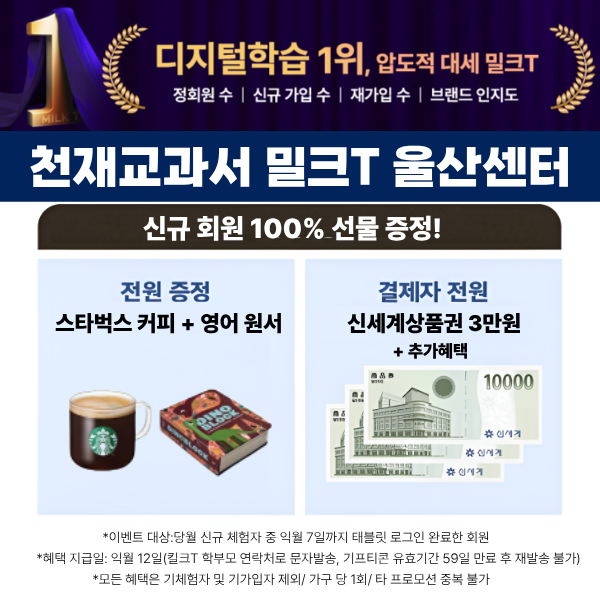
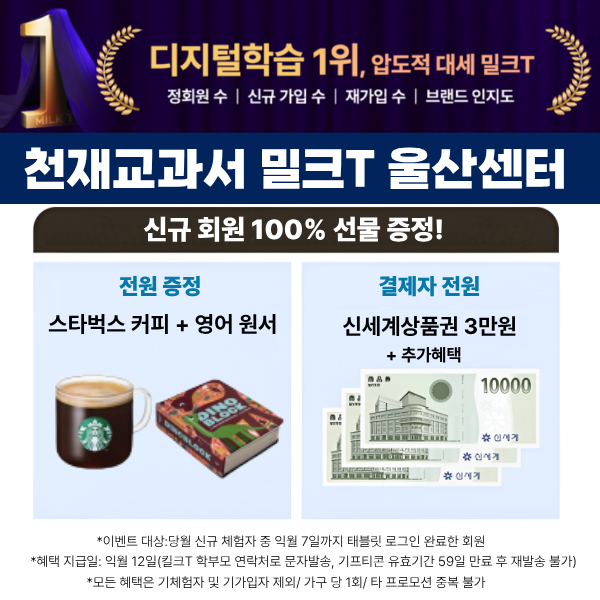
s

Changed region(s): [[0.0, 0.0, 1.0, 0.99], [0.93, 0.45, 0.96, 0.84], [0.99, 0.21, 1.0, 0.24]]

diff --git a/admin.html b/admin.html
@@ -764,6 +764,13 @@
             <div class="content-body">
                 <div class="filter-bar">
                     <div class="filter-item">
+                        <label>문의 구분:</label>
+                        <select id="landing-filter" onchange="onLandingFilterChange()">
+                            <option value="milkt-56">밀크티 5~6세 문의리스트</option>
+                            <option value="milkt-ver2">아이/초등/중고 문의리스트</option>
+                        </select>
+                    </div>
+                    <div class="filter-item">
                         <label>담당선생님:</label>
                         <select id="source-filter" onchange="onSourceFilterChange()">
                             <option value="">전체</option>
@@ -779,7 +786,7 @@
                 </div>
 
                 <div class="inquiries-table">
-                    <div class="table-header">
+                    <div class="table-header" id="inquiries-table-header">
                         <div>ID</div>
                         <div>자녀 생년월일</div>
                         <div>학부모 이름</div>
@@ -868,6 +875,7 @@
         let currentInquiryId = null;
         let searchTerm = '';
         let currentSource = '';
+        let currentLanding = 'milkt-56';
 
         // 초기화
         document.addEventListener('DOMContentLoaded', function() {
@@ -957,7 +965,8 @@
             listContainer.innerHTML = '<div class="loading">로딩 중...</div>';
 
             try {
-                let url = `/api/inquiries?page=${currentPage}&limit=20`;
+                updateTableHeaderForLanding();
+                let url = `/api/inquiries?page=${currentPage}&limit=20&landing=${encodeURIComponent(currentLanding)}`;
                 if (currentSource) url += `&source=${encodeURIComponent(currentSource)}`;
                 const response = await fetch(url);
                 const result = await response.json();
@@ -970,8 +979,9 @@
                         inquiries = inquiries.filter(inquiry => {
                             const name = inquiry.parent_name?.toLowerCase() || '';
                             const phone = inquiry.phone_number?.toLowerCase() || '';
+                            const childInfo = (inquiry.child_birthday || '').toString().toLowerCase();
                             const term = searchTerm.toLowerCase();
-                            return name.includes(term) || phone.includes(term);
+                            return name.includes(term) || phone.includes(term) || childInfo.includes(term);
                         });
                     }
                     
@@ -985,9 +995,35 @@
             }
         }
 
+        // 랜딩 구분에 따라 테이블 헤더 텍스트 변경
+        function updateTableHeaderForLanding() {
+            const header = document.getElementById('inquiries-table-header');
+            if (!header) return;
+            const isVer2 = currentLanding === 'milkt-ver2';
+            const col2 = isVer2 ? '나이 또는 학년' : '자녀 생년월일';
+            const col3 = isVer2 ? '자녀 이름' : '학부모 이름';
+            const col4 = isVer2 ? '학부모 전화번호' : '전화번호';
+            header.innerHTML = `
+                <div>ID</div>
+                <div>${col2}</div>
+                <div>${col3}</div>
+                <div>${col4}</div>
+                <div>담당선생님</div>
+                <div>이용약관</div>
+                <div>개인정보</div>
+                <div>마케팅</div>
+                <div>상태</div>
+                <div>작업</div>
+            `;
+        }
+
         // 문의 목록 표시
         function displayInquiries(inquiries, pagination) {
             const listContainer = document.getElementById('inquiries-list');
+            const isVer2 = currentLanding === 'milkt-ver2';
+            const labelCol2 = isVer2 ? '나이 또는 학년' : '자녀 생년월일';
+            const labelCol3 = isVer2 ? '자녀 이름' : '학부모 이름';
+            const labelCol4 = isVer2 ? '학부모 전화번호' : '전화번호';
 
             if (inquiries.length === 0) {
                 listContainer.innerHTML = `
@@ -1007,9 +1043,9 @@
                 html += `
                     <div class="table-row">
                         <div class="table-cell" data-label="ID">${inquiry.id}</div>
-                        <div class="table-cell" data-label="자녀 생년월일">${inquiry.child_birthday}</div>
-                        <div class="table-cell" data-label="학부모 이름">${inquiry.parent_name}</div>
-                        <div class="table-cell" data-label="전화번호">${inquiry.phone_number}</div>
+                        <div class="table-cell" data-label="${labelCol2}">${inquiry.child_birthday || '-'}</div>
+                        <div class="table-cell" data-label="${labelCol3}">${inquiry.parent_name || '-'}</div>
+                        <div class="table-cell" data-label="${labelCol4}">${inquiry.phone_number || '-'}</div>
                         <div class="table-cell" data-label="담당선생님">${inquiry.source ? inquiry.source : '-'}</div>
                         <div class="table-cell" data-label="이용약관">${inquiry.agree1 ? '✓' : ''}</div>
                         <div class="table-cell" data-label="개인정보">${inquiry.agree2 ? '✓' : ''}</div>
@@ -1068,6 +1104,13 @@
         // 페이지 변경
         function changePage(page) {
             currentPage = page;
+            loadInquiries();
+        }
+
+        // 랜딩 구분 변경
+        function onLandingFilterChange() {
+            currentLanding = document.getElementById('landing-filter').value;
+            currentPage = 1;
             loadInquiries();
         }
 

diff --git a/milkt-ver2/index.html b/milkt-ver2/index.html
@@ -909,33 +909,34 @@
                 <a href="#" class="direct-input-link" onclick="handleDirectInput(event); return false;">직접 입력하기</a>
             </div>
 
-            <!-- 직접 입력 폼 - 1단계: 생년월일 -->
+            <!-- 직접 입력 폼 - 1단계: 나이 또는 학년 -->
             <div class="modal-content form-step" id="step1">
                 <div class="form-title">결과가 다른 시작, 밀크T 무료체험부터!</div>
                 <div class="form-group">
                     <label class="form-label">
-                        <span class="required">*</span>자녀의 생년월일을 입력해주세요.
+                        <span class="required">*</span>나이 또는 학년을 입력해주세요.
                     </label>
-                    <input type="text" class="form-input" id="childBirthday" placeholder="예: 2020-01-01" maxlength="10" oninput="formatDate(this); clearInputError('childBirthday')" required>
+                    <input type="text" class="form-input" id="childBirthday" placeholder="예: 8세, 초등2학년" maxlength="20" oninput="clearInputError('childBirthday')" required>
+                    <div class="form-example">ex) 8세, 초등2학년, 중1</div>
                 </div>
                 <div class="form-buttons">
                     <button class="form-btn form-btn-primary" onclick="goToStep(2, event)">다음</button>
                 </div>
             </div>
 
-            <!-- 직접 입력 폼 - 2단계: 이름, 전화번호 -->
+            <!-- 직접 입력 폼 - 2단계: 자녀 이름, 학부모 전화번호 -->
             <div class="modal-content form-step" id="step2">
                 <div class="form-title">결과가 다른 시작, 밀크T 무료체험부터!</div>
                 <div class="form-group">
                     <label class="form-label">
-                        <span class="required">*</span>학부모님의 이름을 입력해주세요.
+                        <span class="required">*</span>자녀 이름을 입력해주세요.
                     </label>
                     <input type="text" class="form-input" id="parentName" placeholder="홍길동" oninput="clearInputError('parentName')" required>
                     <div class="form-example">ex) 홍길동</div>
                 </div>
                 <div class="form-group">
                     <label class="form-label">
-                        <span class="required">*</span>연락 받으실 전화번호를 입력해주세요.
+                        <span class="required">*</span>학부모 전화번호를 입력해주세요.
                     </label>
                     <input type="tel" class="form-input" id="phoneNumber" placeholder="010-1234-5678" maxlength="13" oninput="formatPhone(this); clearInputError('phoneNumber')" required>
                 </div>
@@ -1139,7 +1140,7 @@
             }
         }
 
-        // 1단계 검증 (생년월일)
+        // 1단계 검증 (나이 또는 학년)
         function validateStep1() {
             const childBirthdayInput = document.getElementById('childBirthday');
             const childBirthday = childBirthdayInput.value.trim();
@@ -1147,35 +1148,7 @@
             clearInputError('childBirthday');
             
             if (!childBirthday) {
-                alert('자녀의 생년월일을 입력해주세요.');
-                showInputError('childBirthday');
-                childBirthdayInput.focus();
-                return false;
-            }
-
-            // 날짜 형식 검증 (YYYY-MM-DD)
-            const datePattern = /^\d{4}-\d{2}-\d{2}$/;
-            if (!datePattern.test(childBirthday)) {
-                alert('생년월일을 올바른 형식으로 입력해주세요. (예: 2020-01-01)');
-                showInputError('childBirthday');
-                childBirthdayInput.focus();
-                return false;
-            }
-
-            // 날짜 유효성 검증
-            const date = new Date(childBirthday);
-            const [year, month, day] = childBirthday.split('-').map(Number);
-            
-            if (date.getFullYear() !== year || date.getMonth() + 1 !== month || date.getDate() !== day) {
-                alert('올바른 날짜를 입력해주세요.');
-                showInputError('childBirthday');
-                childBirthdayInput.focus();
-                return false;
-            }
-
-            // 미래 날짜 체크
-            if (date > new Date()) {
-                alert('미래 날짜는 입력할 수 없습니다.');
+                alert('나이 또는 학년을 입력해주세요.');
                 showInputError('childBirthday');
                 childBirthdayInput.focus();
                 return false;
@@ -1195,7 +1168,7 @@
             clearInputError('phoneNumber');
 
             if (!parentName) {
-                alert('학부모님의 이름을 입력해주세요.');
+                alert('자녀 이름을 입력해주세요.');
                 showInputError('parentName');
                 parentNameInput.focus();
                 return false;
@@ -1420,7 +1393,8 @@
                 phone_number: phoneNumber,
                 agree1: agree1,
                 agree2: agree2,
-                source: source
+                source: source,
+                landing: 'milkt-ver2'
             };
 
             // 서버로 데이터 전송

diff --git a/functions/api/inquiries.js b/functions/api/inquiries.js
@@ -24,6 +24,7 @@ export async function onRequest(context) {
     if (method === 'GET' && path === '/api/inquiries') {
       const status = url.searchParams.get('status') || 'all';
       const source = url.searchParams.get('source') || '';
+      const landing = url.searchParams.get('landing') || '';
       const page = parseInt(url.searchParams.get('page') || '1');
       const limit = parseInt(url.searchParams.get('limit') || '20');
       const offset = (page - 1) * limit;
@@ -37,6 +38,10 @@ export async function onRequest(context) {
       if (source) {
         conditions.push('source = ?');
         params.push(source);
+      }
+      if (landing) {
+        conditions.push('(landing = ? OR (landing IS NULL AND ? = \'milkt-56\'))');
+        params.push(landing, landing);
       }
       const where = conditions.length ? ' WHERE ' + conditions.join(' AND ') : '';
 
@@ -69,8 +74,9 @@ export async function onRequest(context) {
     // POST /api/inquiries - 새 문의 생성
     if (method === 'POST' && path === '/api/inquiries') {
       const body = await request.json();
-      const { child_birthday, parent_name, phone_number, agree1, agree2, agree3, source } = body;
+      const { child_birthday, parent_name, phone_number, agree1, agree2, agree3, source, landing } = body;
       const sourceVal = (source && typeof source === 'string' && source.trim()) ? String(source).trim().slice(0, 100) : null;
+      const landingVal = (landing === 'milkt-ver2') ? 'milkt-ver2' : 'milkt-56';
 
       if (!child_birthday || !parent_name || !phone_number) {
         return new Response(
@@ -84,9 +90,9 @@ export async function onRequest(context) {
 
       const { success, meta } = await db
         .prepare(
-          'INSERT INTO inquiries (child_birthday, parent_name, phone_number, agree1, agree2, agree3, source) VALUES (?, ?, ?, ?, ?, ?, ?)'
+          'INSERT INTO inquiries (child_birthday, parent_name, phone_number, agree1, agree2, agree3, source, landing) VALUES (?, ?, ?, ?, ?, ?, ?, ?)'
         )
-        .bind(child_birthday, parent_name, phone_number, agree1 ? 1 : 0, agree2 ? 1 : 0, agree3 ? 1 : 0, sourceVal)
+        .bind(child_birthday, parent_name, phone_number, agree1 ? 1 : 0, agree2 ? 1 : 0, agree3 ? 1 : 0, sourceVal, landingVal)
         .run();
 
       if (success) {

diff --git a/index.html b/index.html
@@ -1441,7 +1441,8 @@
                 phone_number: phoneNumber,
                 agree1: agree1,
                 agree2: agree2,
-                source: source
+                source: source,
+                landing: 'milkt-56'
             };
 
             // 서버로 데이터 전송
